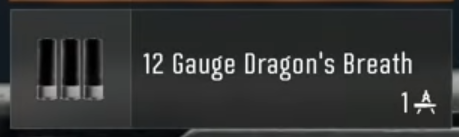
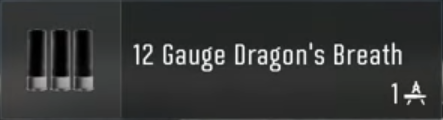
solved some inconsistencies with the naming of files

diff --git a/public/css/style.css b/public/css/style.css
@@ -193,8 +193,8 @@ button:active, #disclaimerButton:active {
 .attachement {
     text-align: center;
     margin: 10px auto 10px auto;
-    height: 70px;
-    width: 250px;
+    height: 98px;
+    width: 350px;
     max-height: 100%;
     border: solid white 1px;
 }
